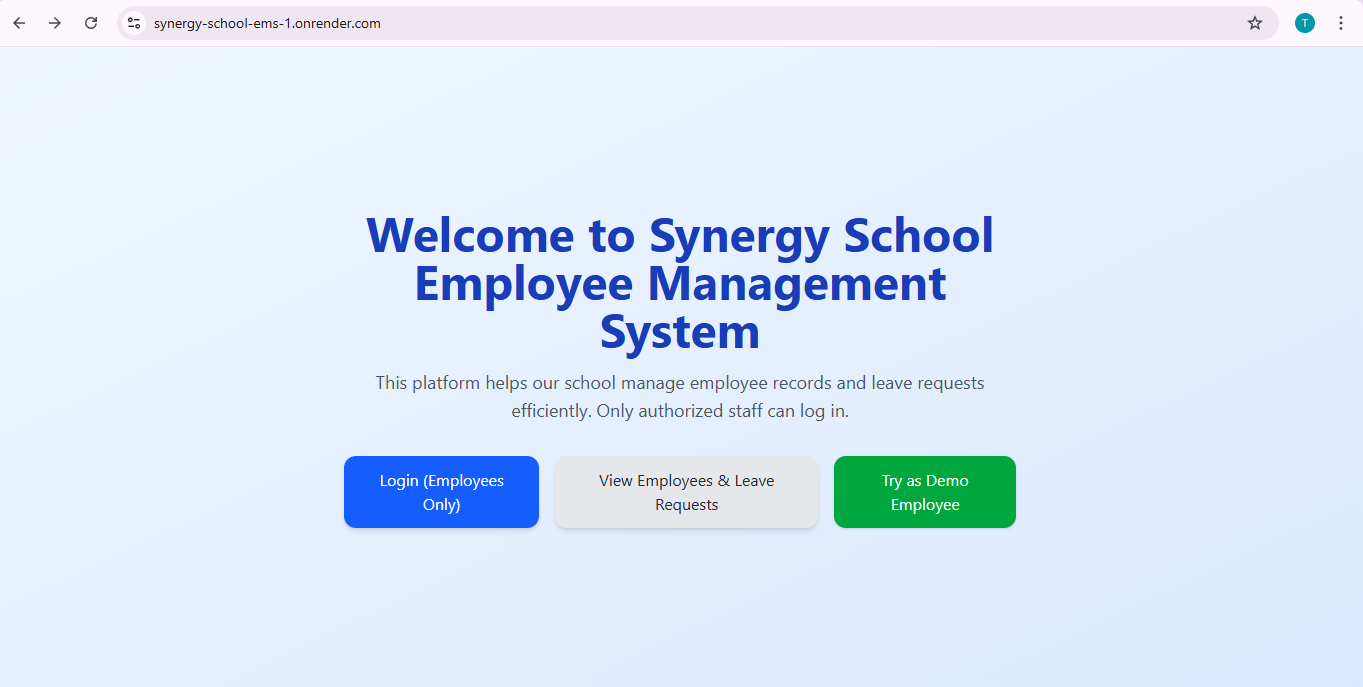
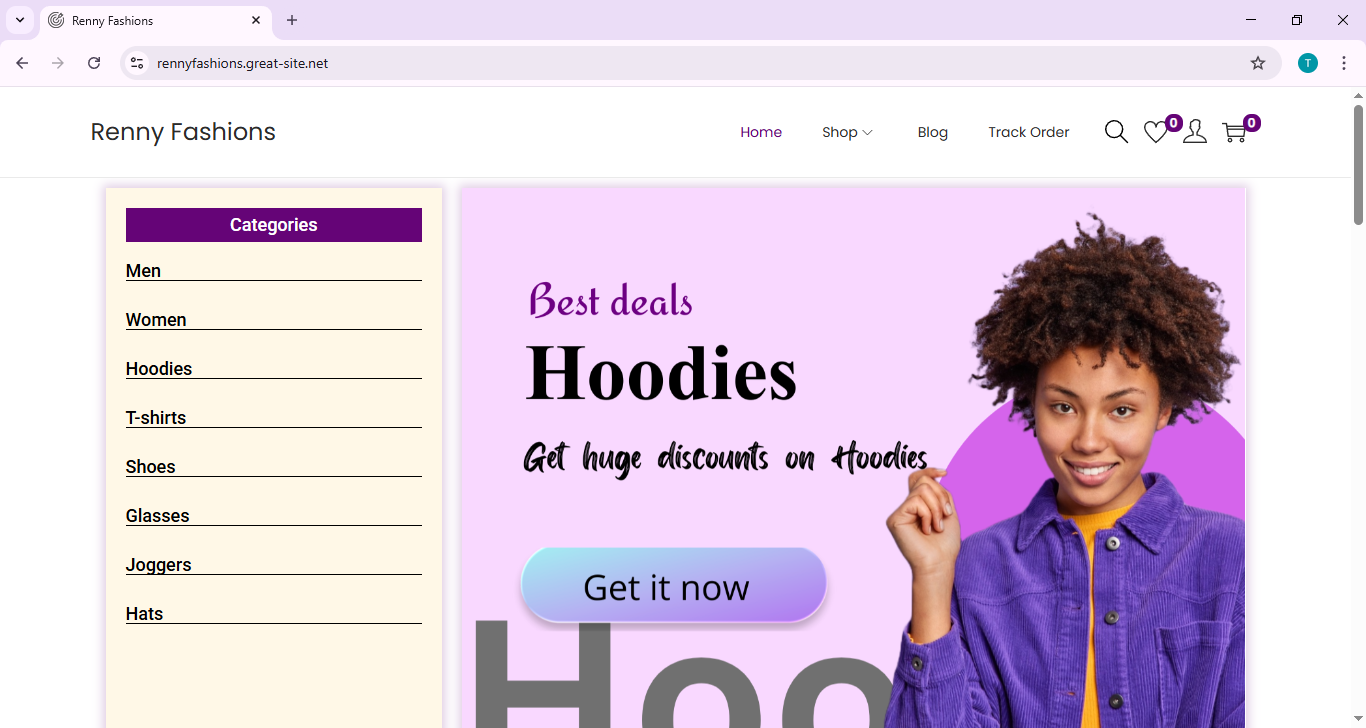
Design the Project Section

diff --git a/src/sections/Projects.jsx b/src/sections/Projects.jsx
@@ -1,7 +1,127 @@
-import React from 'react'
+import AnimatedBorderButton from "../components/AnimatedBorderButton";
+
+const projects = [
+  {
+    title: "E-commerce Website (In Progress)",
+    description:
+      "A full-stack e-commerce website built with React, Express.js, Node.js, and MongoDB (MERN stack). It features user authentication, product listings, shopping cart functionality, and payment integration.",
+    image: "/projects/project-1.png",
+    tags: [
+      "React",
+      "Node.js",
+      "MongoDB",
+      "Express",
+      "Paystack",
+      "MERN",
+      "Ecommerce",
+    ],
+    link: "https://arispace-store-and-logistics-1.onrender.com/",
+    github: "https://github.com/taofeekjide/Arispace-Store-and-Logistics",
+  },
+  {
+    title: "Fashion E-commerce Website",
+    description:
+      "An e-commerce website built with Wordpress. It also features user authentication, product listings, shopping cart functionality, and payment integration.",
+    image: "/projects/project-2.png",
+    tags: ["Wordpress", "Woocommerce", "Paystack", "Ecommerce", "Fashion"],
+    link: "https://rennyfashions.great-site.net/",
+  },
+  {
+    title: "School Employee Management System",
+    description:
+      "A web application for managing school employees, built with the MERN stack. It includes features for employee registration, leaves application, and department management.",
+    image: "/projects/project-3.png",
+    tags: [
+      "React",
+      "Node.js",
+      "Express",
+      "MongoDB",
+      "MERN",
+      "School Management",
+    ],
+    link: "https://school-employee-management-system.onrender.com/",
+    github: "https://github.com/taofeekjide/synergy-school-EMS",
+  },
+  {
+    title: "Medical Appointment Booking System",
+    description:
+      "A full-stack web application for booking medical appointments, built with Wordpress. It features appointment scheduling, and doctor management.",
+    image: "/projects/project-4.png",
+    tags: ["Wordpress", "Healthcare", "Booking System"],
+    link: "https://azummedical.com/",
+  },
+];
 
 export default function Projects() {
   return (
-    <div></div>
-  )
+    <section id="projects" className="py-32 relative overflow-hidden">
+      {/* Bg glows */}
+      <div className="absolute top-1/4 right-0 w-96 h-96 bg-primary/5 rounded-full blur-3xl"></div>
+      <div className="absolute bottom-1/4 left-0 w-64 h-64 bg-highlight/5 rounded-full blur-3xl"></div>
+      <div className="container mx-auto px-6 relative z-10">
+        {/* Section Header */}
+        <div className="text-center mb-16">
+          <span className="text-primary font-bold text-lg">My Projects</span>
+          <h2 className="text-3xl font-bold">Check Out My Work</h2>
+          <p className="text-muted-foreground max-w-xl mx-auto mt-4 animate-fade-in animation-delay-200">
+            Here are some of the projects I've worked on. Each project showcases
+            my skills in web development and my ability to create functional and
+            visually appealing applications.
+          </p>
+        </div>
+
+        {/* Project Cards */}
+        <div className="grid grid-cols-1 md:grid-cols-2 lg:grid-cols-3 gap-8">
+          {projects.map((project, index) => (
+            <div
+              key={index}
+              className="bg-card border border-border rounded-lg shadow-md overflow-hidden hover:shadow-lg transition-shadow duration-300"
+            >
+              <img
+                src={project.image}
+                alt={project.title}
+                className="w-full h-48 object-cover"
+              />
+              <div className="p-6">
+                <h3 className="text-xl font-bold mb-2">{project.title}</h3>
+                <p className="text-muted-foreground mb-4">
+                  {project.description}
+                </p>
+                <div className="flex flex-wrap gap-2 mb-4">
+                  {project.tags.map((tag, tagIndex) => (
+                    <span
+                      key={tagIndex}
+                      className="bg-primary/10 text-primary text-xs font-medium px-2 py-1 rounded"
+                    >
+                      {tag}
+                    </span>
+                  ))}
+                </div>
+                <div className="flex gap-4">
+                  <a
+                    href={project.link}
+                    target="_blank"
+                    rel="noopener noreferrer"
+                    className="text-primary hover:text-primary/80 font-medium"
+                  >
+                    <AnimatedBorderButton>View Project</AnimatedBorderButton>
+                  </a>
+                  {project.github && (
+                    <a
+                      href={project.github}
+                      target="_blank"
+                      rel="noopener noreferrer"
+                      className="text-primary hover:text-primary/80 font-medium"
+                    >
+                      <AnimatedBorderButton>View Code</AnimatedBorderButton>
+                    </a>
+                  )}
+                </div>
+              </div>
+            </div>
+          ))}
+        </div>
+      </div>
+    </section>
+  );
 }

diff --git a/src/sections/Hero.jsx b/src/sections/Hero.jsx
@@ -1,4 +1,4 @@
-import { ArrowRight } from "lucide-react";
+import { ArrowRight, DownloadCloud } from "lucide-react";
 import Button from "../components/Button";
 import AnimatedBorderButton from "../components/AnimatedBorderButton";
 import { FaGithub, FaLinkedin } from "react-icons/fa";
@@ -80,7 +80,9 @@ export default function Hero() {
               <Button size="lg">
                 Contact Me <ArrowRight />{" "}
               </Button>
-              <AnimatedBorderButton />
+              <AnimatedBorderButton>
+                My CV <DownloadCloud />
+              </AnimatedBorderButton>
             </div>
 
             {/* Social Links */}

diff --git a/src/components/AnimatedBorderButton.jsx b/src/components/AnimatedBorderButton.jsx
@@ -1,6 +1,6 @@
 import { DownloadCloud } from "lucide-react";
 
-export default function AnimatedBorderButton() {
+export default function AnimatedBorderButton({children}) {
   return (
     <button className="relative bg-transparent border border-border text-foreground hover:border-primary/50 transition-all duration-1000 focus:outline-none focus-visible:ring-2 focus-visible:ring-primary focus-visible:ring-offset-2 disabled:opacity-50 disabled:cursor-not-allowed group px-8 py-4 text-lg font-medium rounded-full overflow-visible animated-border cursor-pointer">
       <svg
@@ -22,7 +22,7 @@ export default function AnimatedBorderButton() {
         />
       </svg>
       <span className="relative z-10 flex items-center justify-center gap-2">
-        My CV <DownloadCloud />
+        {children}
       </span>
     </button>
   );